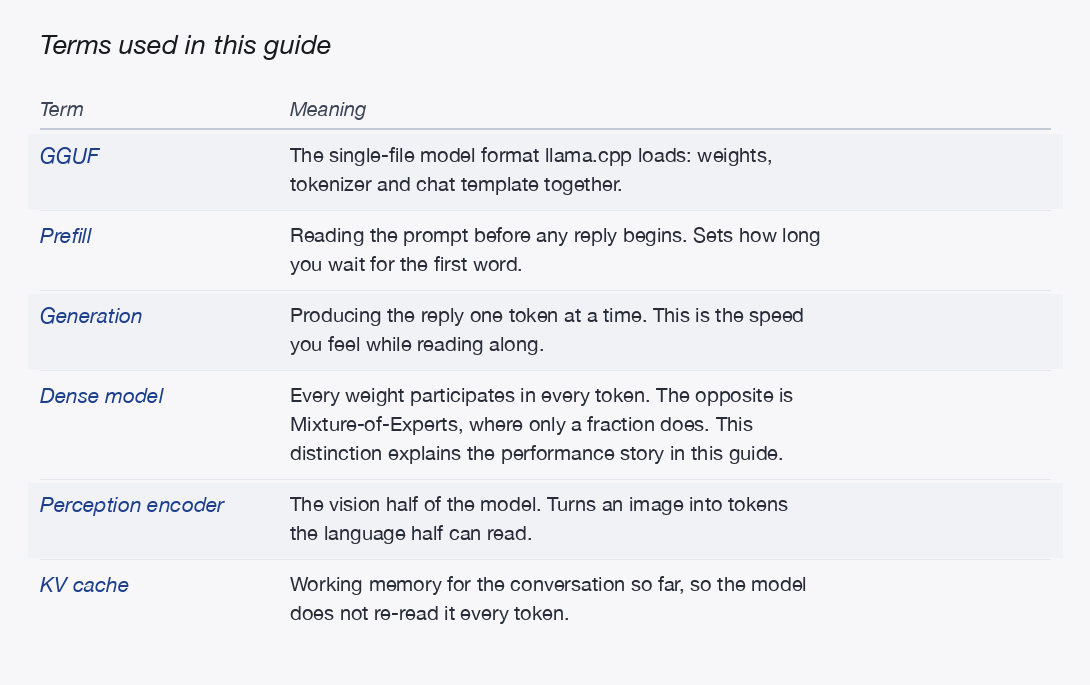
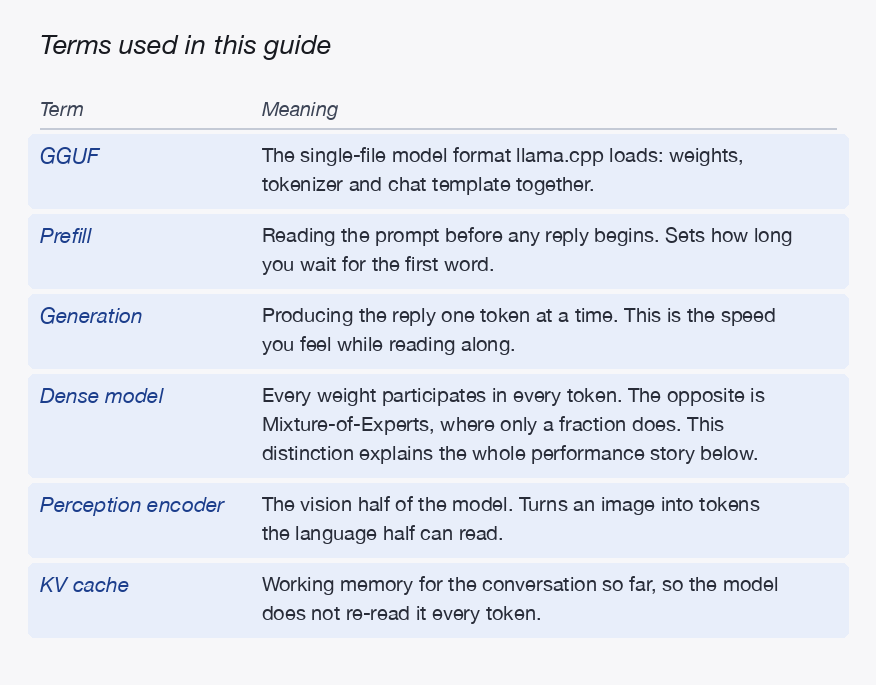
Render every README table as a PNG, parsed from the README
The renderer reads the tables out of README.md rather than keeping a
second copy, so the images cannot drift from the prose. Also fixes a
tree-branch character in the project structure block.

diff --git a/scripts/render-doc-assets.py b/scripts/render-doc-assets.py
@@ -43,6 +43,8 @@ def font(path, size, index=0):
     return ImageFont.truetype(path, size, index=index)
 
 
+_MEASURE = ImageDraw.Draw(Image.new("RGB", (1, 1)))   # for measuring text off-canvas
+
 F_LABEL = font(SANS, 25, 2)      # medium weight
 F_CAPTION = font(SANS, 19)
 F_JSON = font(MONO, 17)
@@ -569,121 +571,135 @@ def two_tier_figure():
     print(f"wrote images/two-tier.png  {W}x{H}")
 
 
-def table_figure(title, headers, rows, out_name, col_w, note=None, bold_last=False):
-    f_h = font(SANS, 20, 2)
-    f_r = font(MONO, 18)
-    pad, rh = 40, 42
-    W = pad * 2 + sum(col_w)
-    H = 74 + 52 + rh * len(rows) + (46 if note else 0) + pad
-    img = Image.new("RGB", (W, H), BG)
-    d = ImageDraw.Draw(img)
-    d.text((pad, 26), title, font=font(SANS, 27, 2), fill=INK)
+# Every markdown table in README.md is rendered from the README itself, so the images
+# can never drift from the prose. Keyed by the table's header row.
+TABLE_SPECS = {
+    ("Term", "Meaning"): dict(
+        out="terms-table.png", title="Terms used in this guide", wrap=58),
+    ("What", "Time"): dict(
+        out="inspection-timing.png", title="What one inspection costs", wrap=46),
+    ("Context", "KV cache"): dict(
+        out="kv-cache-table.png", title="Why a 131K context is affordable here", wrap=46),
+    ("Step", "Tokens", "Time"): dict(
+        out="document-timing.png", title="Read the document once, then ask", wrap=30,
+        note="The first call pays for the whole document. Every question after reuses the cache."),
+    ("Threads", "Prefill (512 tokens)", "Generation (64 tokens)"): dict(
+        out="threads-table.png", title="Use all eight cores", wrap=26),
+    ("Tier", "Runs on", "Timescale", "Good for"): dict(
+        out="tiers-table.png", title="Which tier a job belongs to", wrap=34),
+    ("Measurement", "Value"): dict(
+        out="results-table.png", title="Measured on the board", wrap=52,
+        note="Raw logs for every number are in results/."),
+}
 
-    y = 90
-    x = pad
-    for h, w in zip(headers, col_w):
-        d.text((x, y), h, font=f_h, fill=(60, 68, 86))
-        x += w
-    y += 34
-    d.line([(pad, y), (W - pad, y)], fill=(196, 202, 214), width=2)
-    y += 10
-
-    for i, row in enumerate(rows):
-        last = bold_last and i == len(rows) - 1
-        if i % 2 == 0 and not last:
-            d.rectangle([pad - 10, y - 6, W - pad + 10, y + rh - 10], fill=(241, 242, 246))
-        if last:
-            d.rounded_rectangle([pad - 10, y - 6, W - pad + 10, y + rh - 10], radius=6,
-                                fill=(232, 238, 250))
-        x = pad
-        for cell, w in zip(row, col_w):
-            f = font(MONO, 18, 1) if last else f_r
-            d.text((x, y), cell, font=f, fill=INK if last else (40, 44, 56))
-            x += w
-        y += rh
-        if not last:
-            d.line([(pad, y - 8), (W - pad, y - 8)], fill=(228, 231, 238), width=1)
-
-    if note:
-        d.text((pad, y + 8), note, font=font(SANS, 18), fill=MUTED)
-    img.save(OUT / out_name)
-    print(f"wrote images/{out_name}  {W}x{H}")
+# A couple of cells point at their surroundings, which means nothing in a standalone
+# image. Reword just those.
+CELL_SUBS = {
+    "This distinction explains the whole performance story below.":
+        "This distinction explains the performance story in this guide.",
+}
 
 
-def results_table():
-    table_figure(
-        "Measured on the board",
-        ["Measurement", "Value"],
-        [["Model file", "16.76 GB on disk, 15.59 GiB loaded, 27.85 B params"],
-         ["Prefill, 8 threads", "8.13 tokens/s"],
-         ["Generation, 8 threads", "2.84 tokens/s"],
-         ["Weight bandwidth while generating", "47.5 GB/s, 91% of measured peak read"],
-         ["Peak read, pure-read benchmark", "52 GB/s at 4 threads (49 GB/s warm)"],
-         ["Image encode, 512 px", "34.0 s"],
-         ["Image encode, 1024 px", "131.9 s"],
-         ["Image to JSON verdict, low reasoning", "212.2 s"],
-         ["Image to JSON verdict, high reasoning", "277.7 s"],
-         ["Tool call from a sensor report", "205.4 s"],
-         ["Read a 26,285-token document", "3,999 s, then 51-134 s per question"],
-         ["Full 131K context, KV cache", "about 1.8 GB"]],
-        "results-table.png", [520, 620],
-        note="Raw logs for every number are in results/.")
+def parse_markdown_tables(md_path):
+    """Yield (headers, rows) for every pipe table in a markdown file."""
+    lines = md_path.read_text().splitlines()
+    i, tables = 0, []
+    while i < len(lines):
+        if lines[i].startswith("|") and i + 1 < len(lines) and set(lines[i + 1]) <= set("|-: "):
+            block = []
+            j = i
+            while j < len(lines) and lines[j].startswith("|"):
+                block.append(lines[j])
+                j += 1
+            cells = [[c.strip() for c in row.strip("|").split("|")] for row in block]
+            tables.append((cells[0], cells[2:]))   # skip the |---| separator row
+            i = j
+        else:
+            i += 1
+    return tables
 
 
-def terms_table():
-    """The glossary, as a standalone image. Definitions wrap, so row heights vary."""
-    rows = [
-        ("GGUF", "The single-file model format llama.cpp loads: weights, tokenizer and "
-                 "chat template together."),
-        ("Prefill", "Reading the prompt before any reply begins. Sets how long you wait "
-                    "for the first word."),
-        ("Generation", "Producing the reply one token at a time. This is the speed you "
-                       "feel while reading along."),
-        ("Dense model", "Every weight participates in every token. The opposite is "
-                        "Mixture-of-Experts, where only a fraction does. This distinction "
-                        "explains the performance story in this guide."),
-        ("Perception encoder", "The vision half of the model. Turns an image into tokens "
-                               "the language half can read."),
-        ("KV cache", "Working memory for the conversation so far, so the model does not "
-                     "re-read it every token."),
-    ]
-    f_term = font(SANS, 21, 2)
-    f_def = font(SANS, 20)
+def render_table(headers, rows, out, title, wrap=48, note=None):
+    """Render one parsed markdown table. Bold cells stay bold; long cells wrap."""
     f_head = font(SANS, 20, 2)
+    f_cell = font(SANS, 20)
+    f_cell_b = font(SANS, 20, 2)
+    f_key = font(SANS, 21, 2)
+    pad, lh, row_pad = 40, 29, 22
 
-    pad, col1, col2, lh = 40, 250, 760, 29
-    W = pad * 2 + col1 + col2
+    def clean(cell):
+        bold = "**" in cell
+        text = cell.replace("**", "").replace("`", "")
+        return CELL_SUBS.get(text, text), bold
 
-    # Wrap first so the canvas is exactly as tall as the content needs.
-    wrapped = [(t, textwrap.wrap(dfn, width=58)) for t, dfn in rows]
-    body_h = sum(max(len(w), 1) * lh + 22 for _, w in wrapped)
-    H = 90 + 46 + body_h + pad
+    grid = [[clean(c) for c in row] for row in rows]
+    wrapped = [[(textwrap.wrap(t, width=wrap) or [""], b) for t, b in row] for row in grid]
+
+    ncol = len(headers)
+    col_w = []
+    for c in range(ncol):
+        widest = max(
+            [_MEASURE.textlength(headers[c].replace("**", ""), font=f_head)] +
+            [_MEASURE.textlength(line, font=f_cell_b)
+             for row in wrapped for line in row[c][0]]
+        )
+        col_w.append(widest + 46)
+
+    W = pad * 2 + int(sum(col_w))
+    body_h = sum(max(len(cell[0]) for cell in row) * lh + row_pad for row in wrapped)
+    H = 90 + 46 + body_h + (44 if note else 0) + pad
 
     img = Image.new("RGB", (W, H), BG)
     d = ImageDraw.Draw(img)
-    d.text((pad, 28), "Terms used in this guide", font=font(SANS, 27, 2), fill=INK)
+    d.text((pad, 28), title, font=font(SANS, 27, 2), fill=INK)
 
     y = 96
-    d.text((pad, y), "Term", font=f_head, fill=(60, 68, 86))
-    d.text((pad + col1, y), "Meaning", font=f_head, fill=(60, 68, 86))
+    x = pad
+    for h, w in zip(headers, col_w):
+        d.text((x, y), h.replace("**", ""), font=f_head, fill=(60, 68, 86))
+        x += w
     y += 32
     d.line([(pad, y), (W - pad, y)], fill=(196, 202, 214), width=2)
     y += 14
 
-    for i, (term, lines) in enumerate(wrapped):
-        h = max(len(lines), 1) * lh + 22
-        if i % 2 == 0:
+    for i, row in enumerate(wrapped):
+        h = max(len(cell[0]) for cell in row) * lh + row_pad
+        emphasised = any(b for _, b in row)
+        if emphasised:
+            d.rounded_rectangle([pad - 12, y - 8, W - pad + 12, y + h - 14], radius=6,
+                                fill=(232, 238, 250))
+        elif i % 2 == 0:
             d.rectangle([pad - 12, y - 8, W - pad + 12, y + h - 14], fill=(241, 242, 246))
-        d.text((pad, y), term, font=f_term, fill=(28, 62, 140))
-        for j, line in enumerate(lines):
-            d.text((pad + col1, y + j * lh), line, font=f_def, fill=(40, 44, 56))
+        x = pad
+        for c, (cell_lines, bold) in enumerate(row):
+            f = f_key if c == 0 else (f_cell_b if bold else f_cell)
+            colour = (28, 62, 140) if c == 0 else (40, 44, 56)
+            for j, line in enumerate(cell_lines):
+                d.text((x, y + j * lh), line, font=f, fill=colour)
+            x += col_w[c]
         y += h
-        if i < len(wrapped) - 1:
+        if i < len(wrapped) - 1 and not emphasised:
             d.line([(pad, y - 12), (W - pad, y - 12)], fill=(228, 231, 238), width=1)
 
+    if note:
+        d.text((pad, y + 6), note, font=font(SANS, 18), fill=MUTED)
+
     OUT.mkdir(exist_ok=True)
-    img.save(OUT / "terms-table.png")
-    print(f"wrote images/terms-table.png  {W}x{H}")
+    img.save(OUT / out)
+    print(f"wrote images/{out}  {W}x{H}")
+
+
+def all_readme_tables():
+    seen = set()
+    for headers, rows in parse_markdown_tables(ROOT / "README.md"):
+        spec = TABLE_SPECS.get(tuple(headers))
+        if spec is None:
+            print(f"  WARNING: no spec for table {headers}, skipped")
+            continue
+        render_table(headers, rows, **spec)
+        seen.add(tuple(headers))
+    for missing in set(TABLE_SPECS) - seen:
+        print(f"  WARNING: spec {missing} matched no table in README.md")
 
 
 def structure_figure():
@@ -726,6 +742,5 @@ if __name__ == "__main__":
     architecture_figure()
     cadence_figure()
     two_tier_figure()
-    results_table()
-    terms_table()
+    all_readme_tables()
     structure_figure()

diff --git a/README.md b/README.md
@@ -409,7 +409,7 @@ Raw logs for every number above are in [`results/`](results/).
 │   ├── inspect.sh        inspect one image, print a JSON verdict (Step 4)
 │   ├── manual_qa.py      read a long document once, then ask questions about it
 │   ├── fetch-manual.sh   rebuild that document from Qualcomm's published pages
-│   └── membw.c           the memory-bandwidth probe behind the 52 GB/s figure
+│   ├── membw.c           the memory-bandwidth probe behind the 52 GB/s figure
 │   └── render-doc-assets.py  rebuilds every figure in this guide
 ├── results/              raw logs for every number in this guide
 ├── test-data/            the board photos used in the inspection runs
